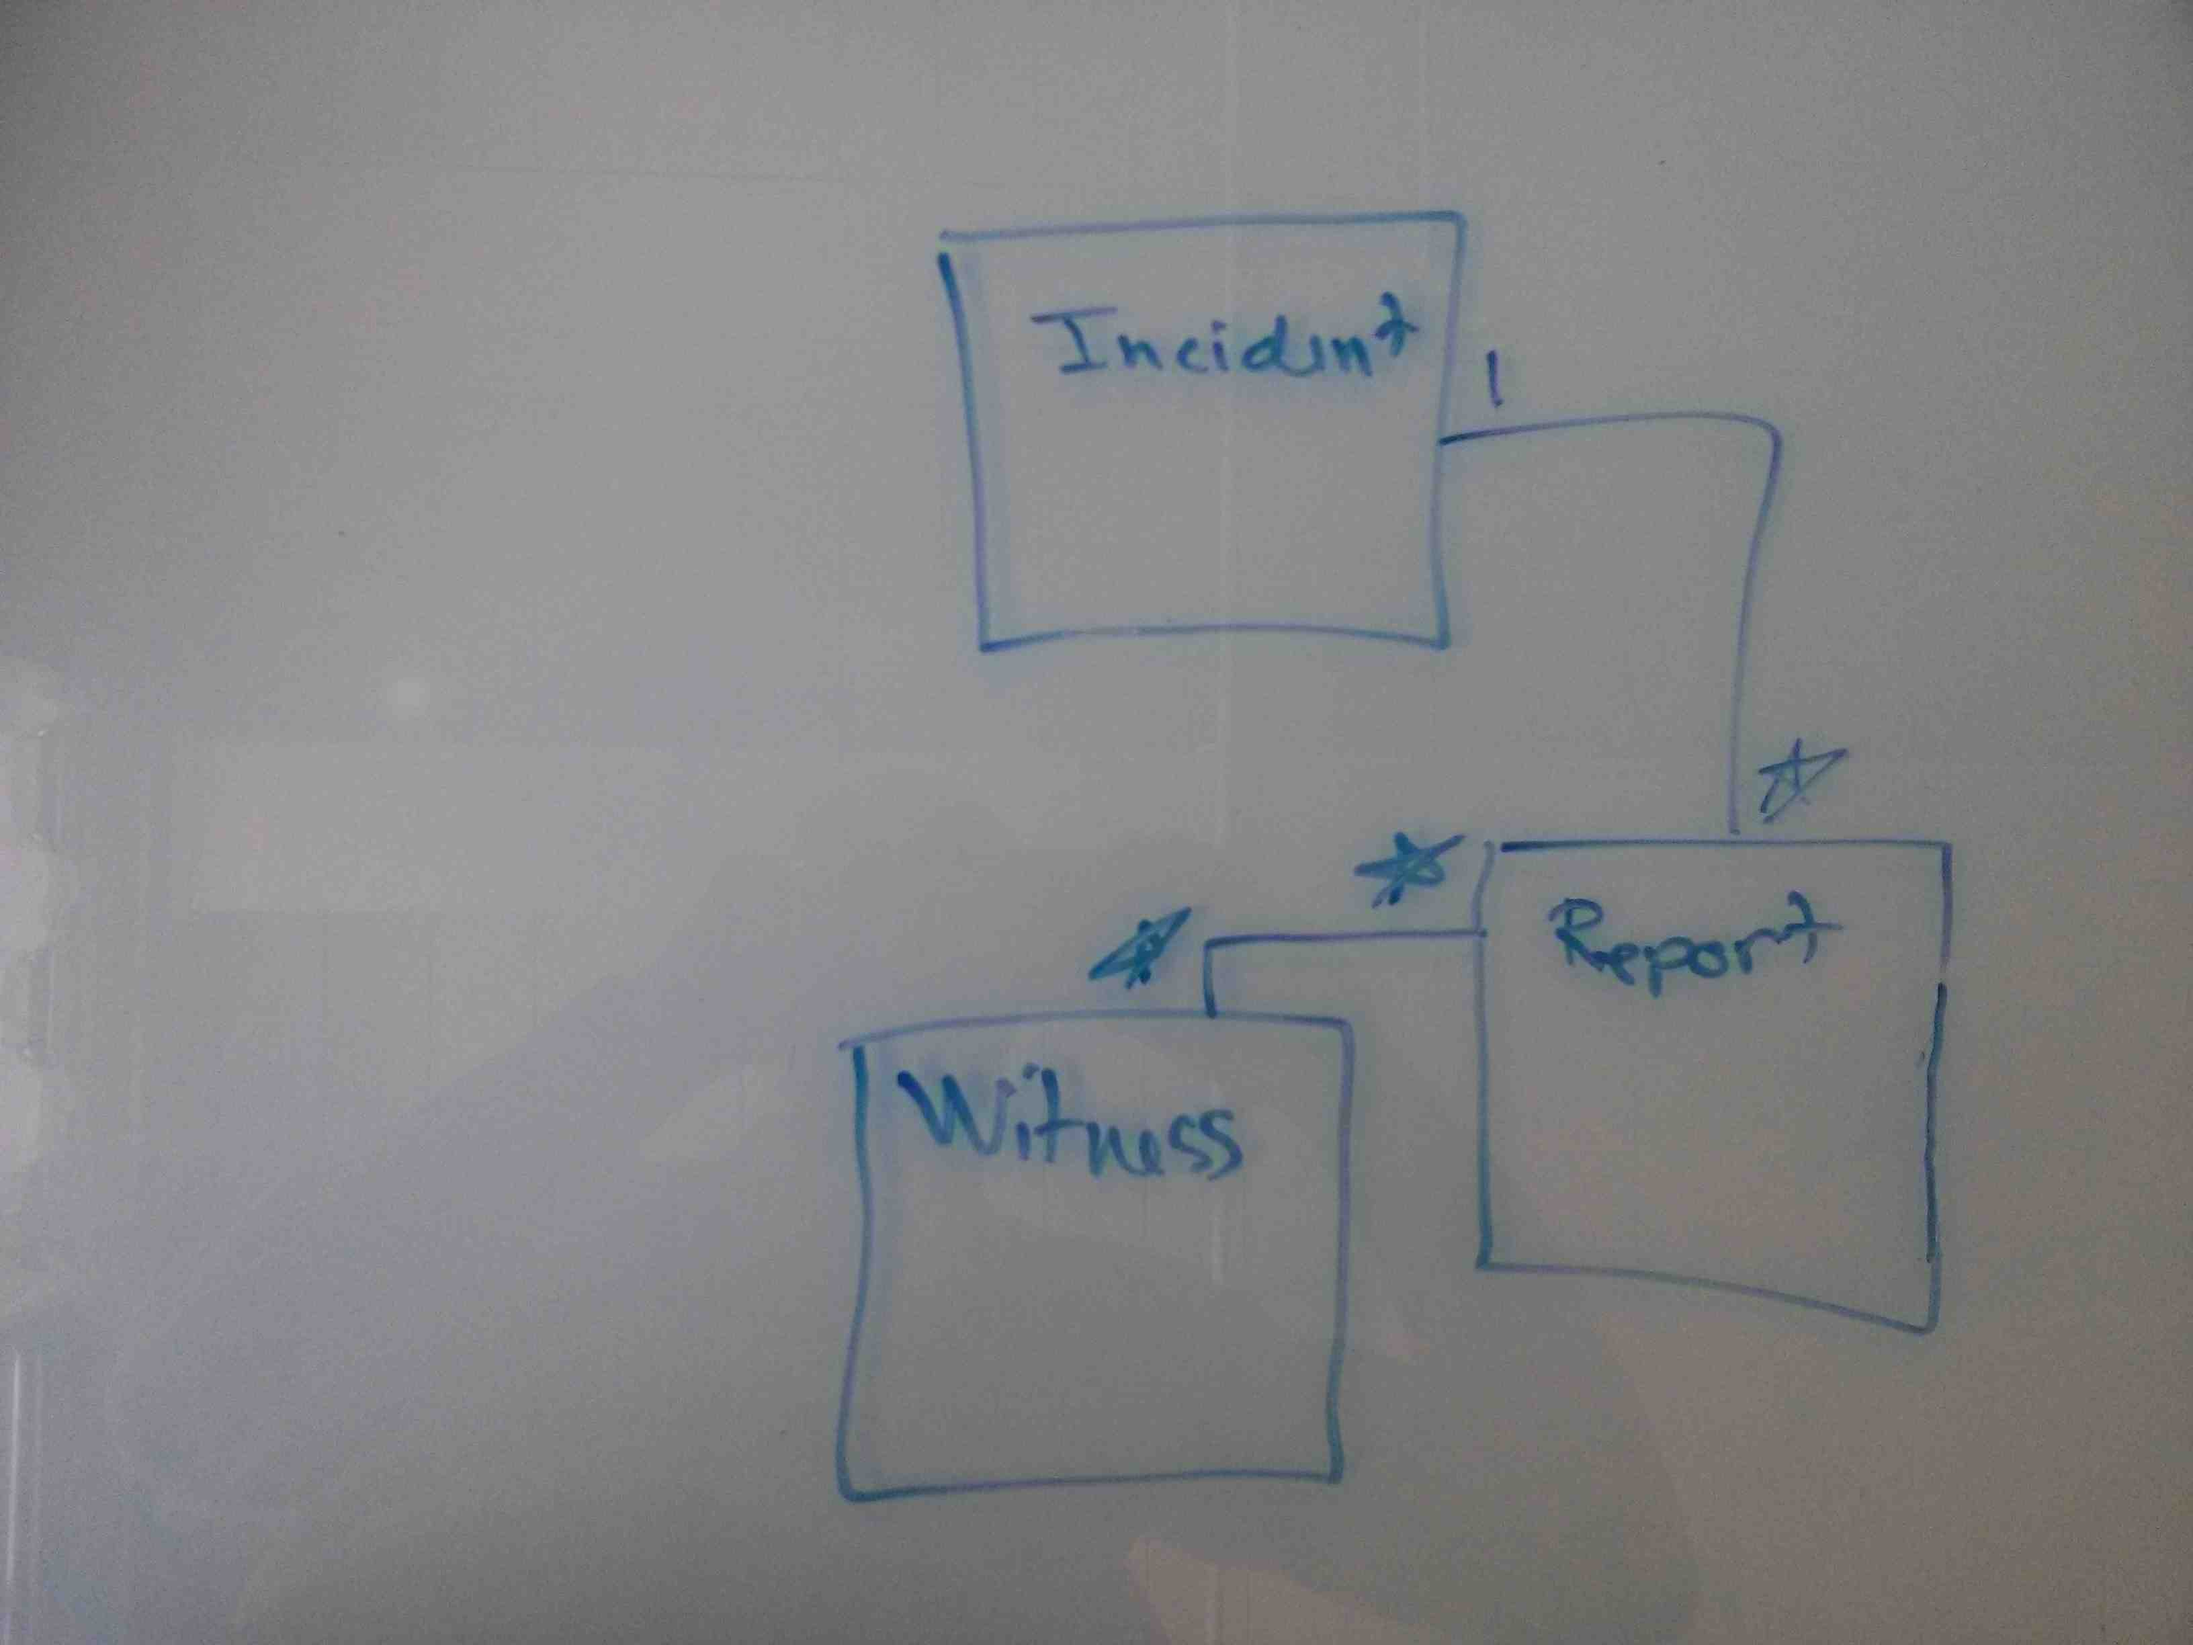
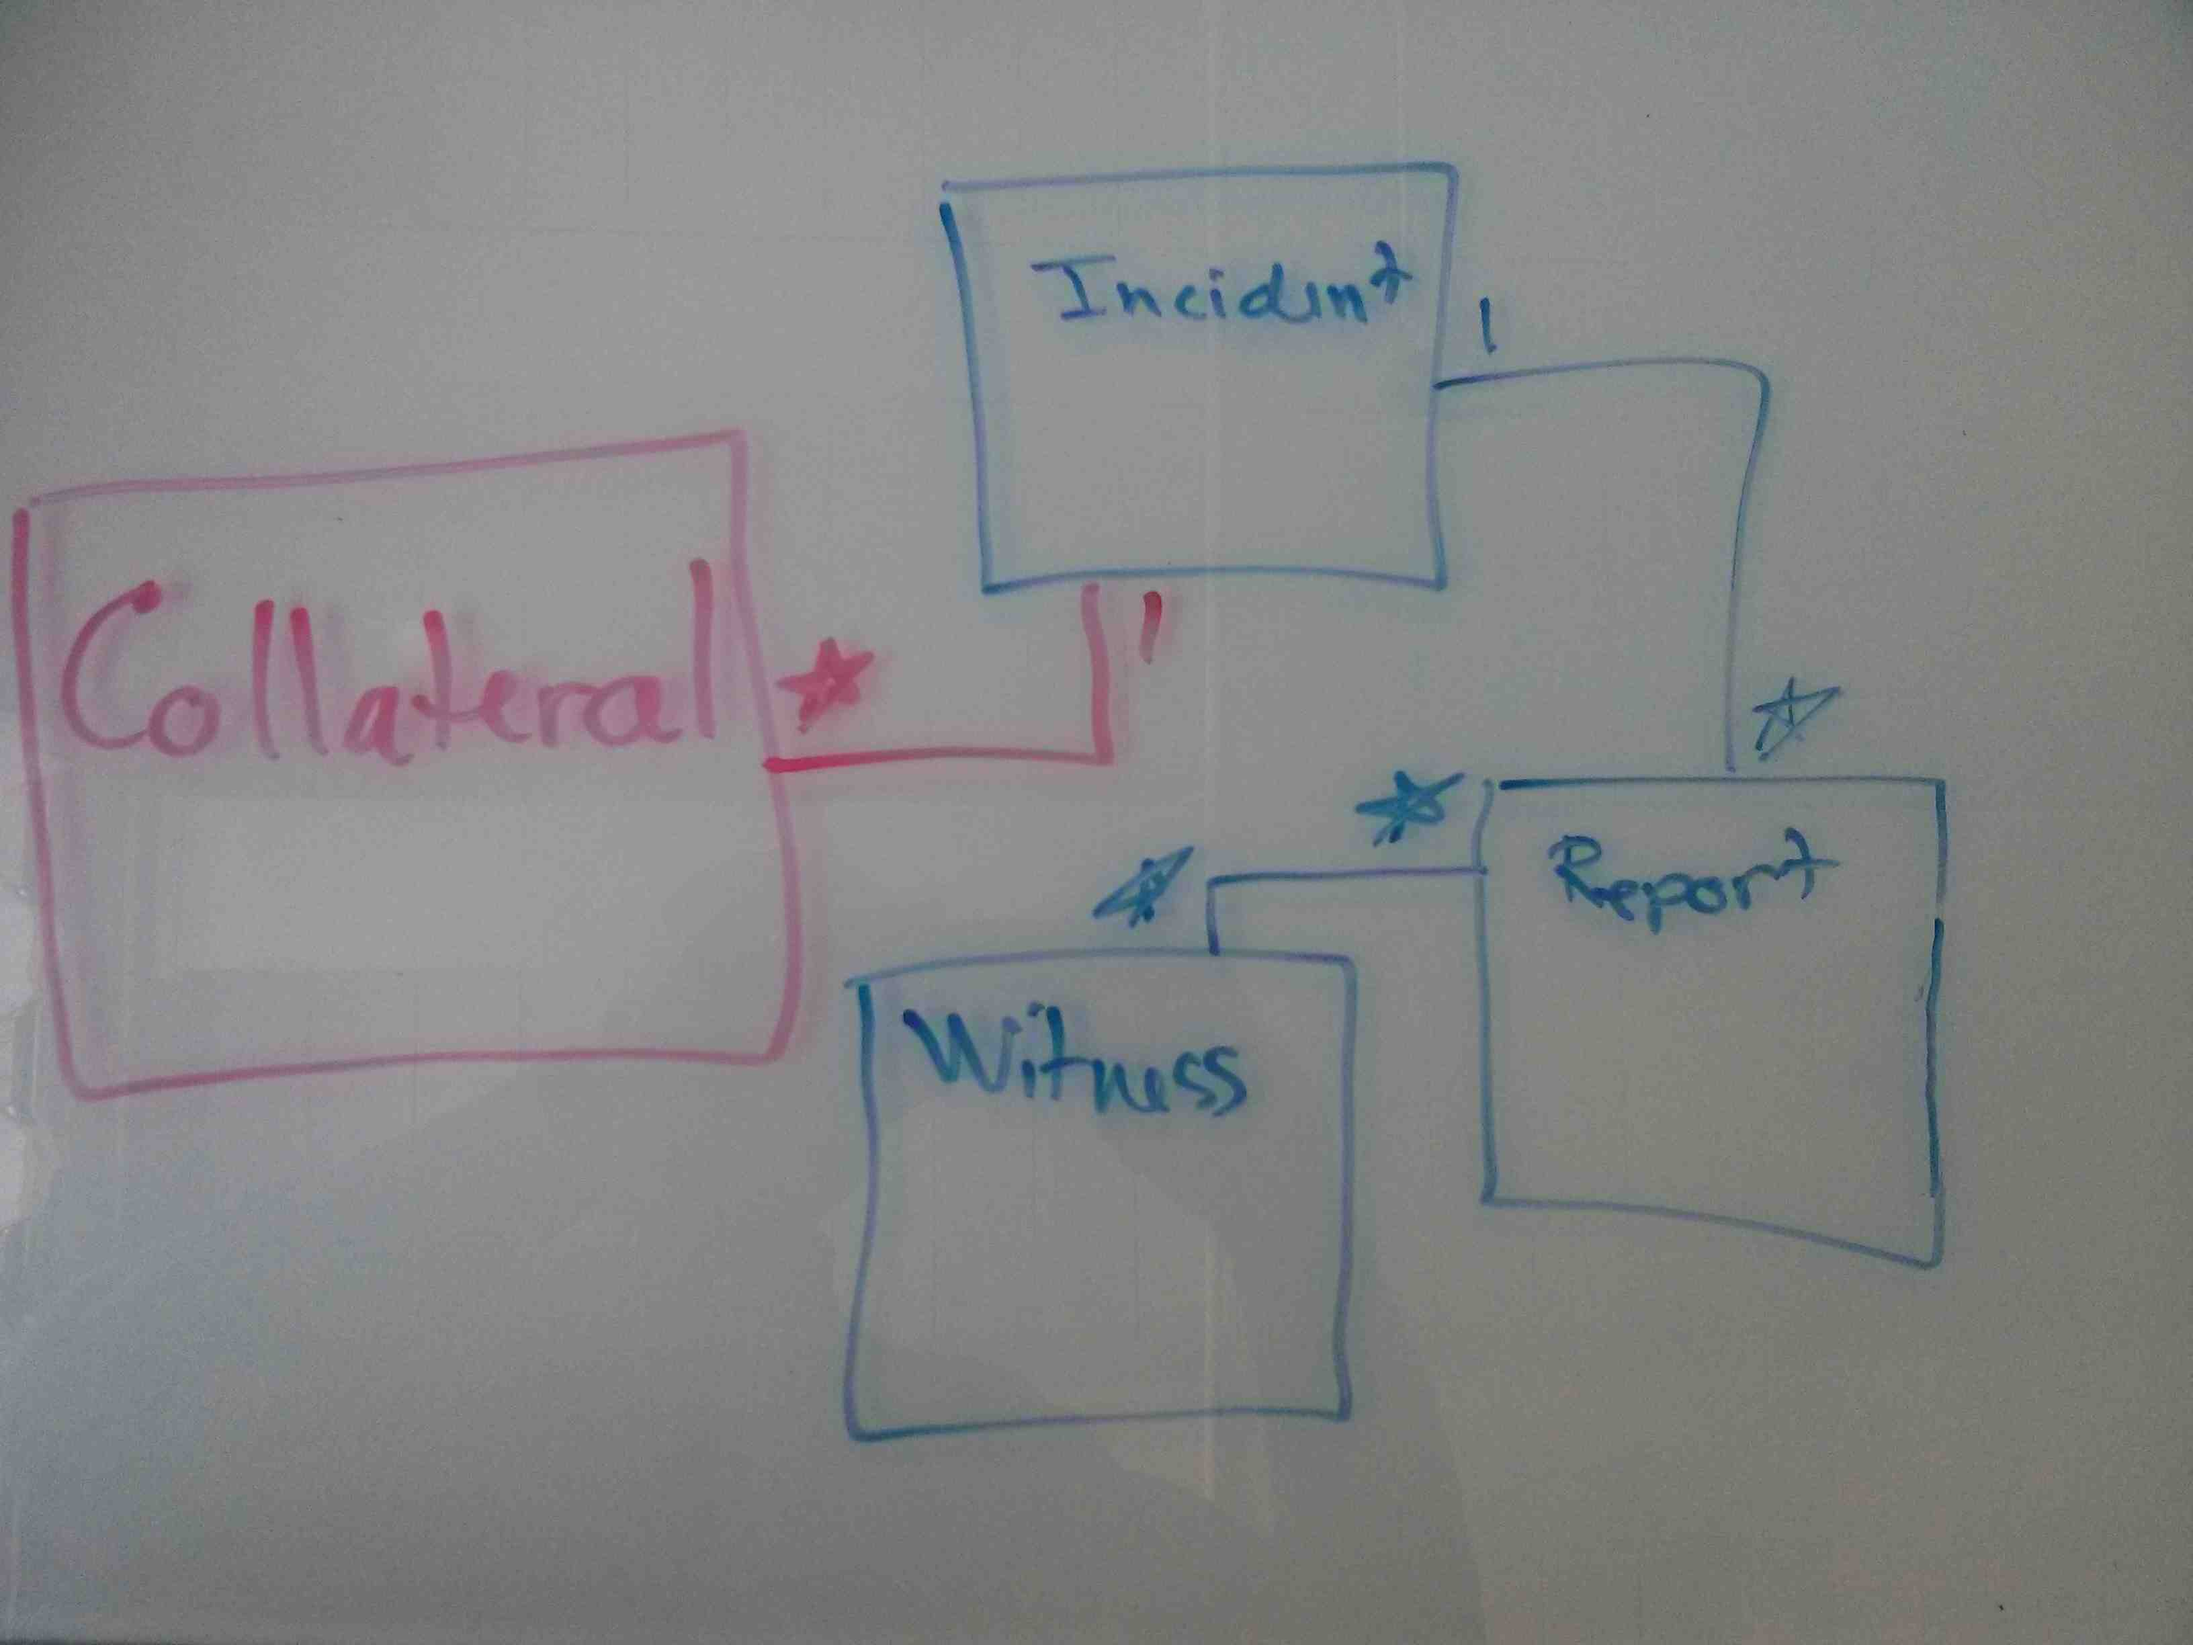
Added collateral model.

diff --git a/README.md b/README.md
@@ -2,3 +2,5 @@ Incident Monitoring Schema
 ==============
 This diagram represents our current incident monitoring schema.
 
+It includes both the incident report models and the collateral models.
+
